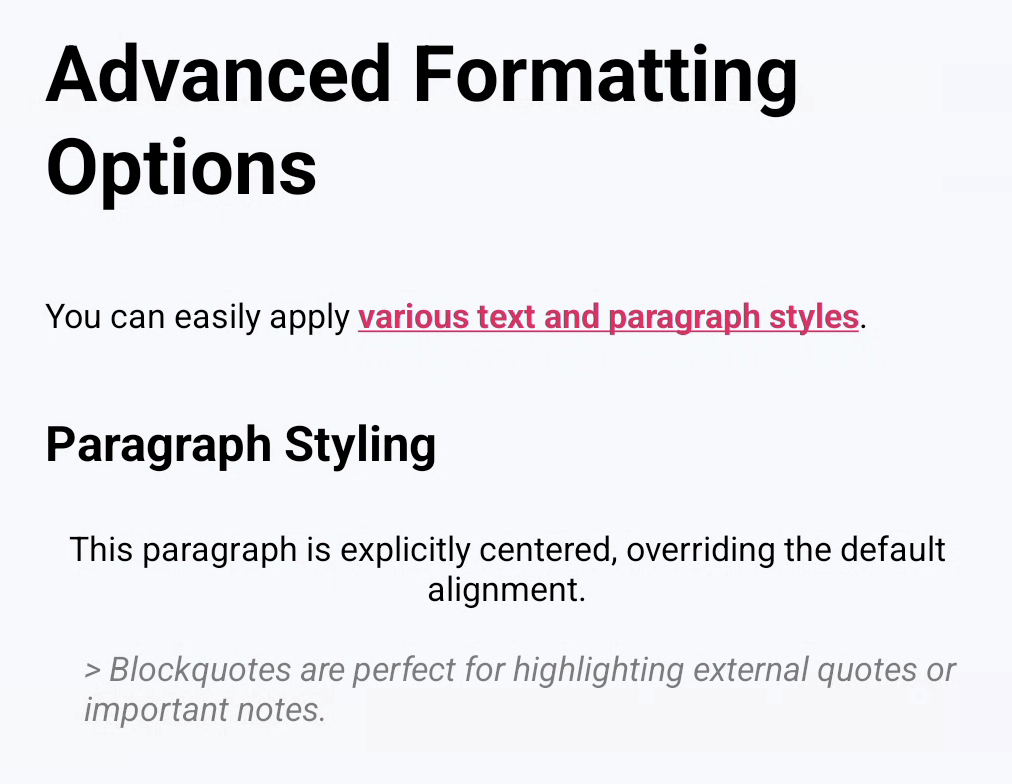
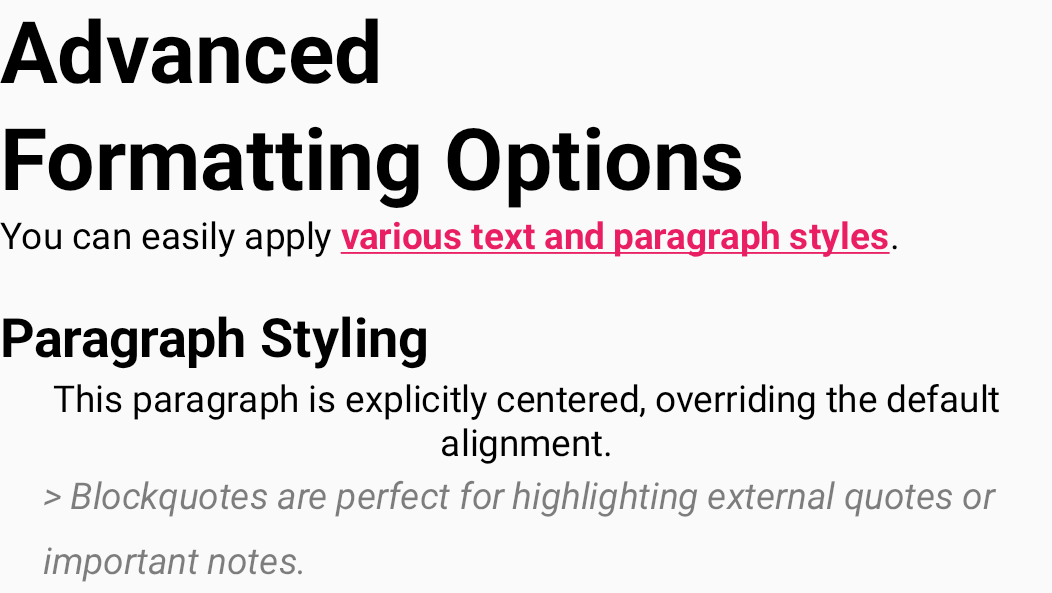
refactor: remove padding and layout noise from samples for clean documentation

Changed region(s): [[0.0, 0.0304, 0.8577, 0.4553], [0.0, 0.516, 0.9496, 0.7892], [0.0306, 0.8196, 0.9496, 0.9713]]

diff --git a/sample-app/src/main/java/dev/mkeeda/arranger/sampleApp/CustomAttributeSample.kt b/sample-app/src/main/java/dev/mkeeda/arranger/sampleApp/CustomAttributeSample.kt
@@ -59,17 +59,12 @@ fun CustomAttributeSample(modifier: Modifier = Modifier) {
             }
         }
 
-    Column(modifier = modifier.padding(16.dp)) {
-        Text("Custom Attribute Mapping Demo", fontWeight = FontWeight.Bold)
-        Spacer(modifier = Modifier.height(16.dp))
-
-        // 4. Pass the custom resolver to RichTextEditor
-        RichTextEditor(
-            state = state,
-            styleResolver = customResolver,
-            modifier = Modifier.fillMaxWidth(),
-        )
-    }
+    // 4. Pass the custom resolver to RichTextEditor
+    RichTextEditor(
+        state = state,
+        styleResolver = customResolver,
+        modifier = modifier.fillMaxWidth(),
+    )
 }
 
 @Preview(showBackground = true)

diff --git a/sample-app/src/main/java/dev/mkeeda/arranger/sampleApp/ChatInputSample.kt b/sample-app/src/main/java/dev/mkeeda/arranger/sampleApp/ChatInputSample.kt
@@ -74,14 +74,8 @@ fun ChatInputSample(modifier: Modifier = Modifier) {
         modifier =
             modifier
                 .fillMaxSize()
-                .imePadding()
-                .padding(16.dp),
+                .imePadding(),
     ) {
-        Text(
-            text = "Chat UI Sample",
-            style = MaterialTheme.typography.titleLarge,
-        )
-        Spacer(modifier = Modifier.height(8.dp))
         Text(
             text = "Select text and use the toolbar to format it. Real-time cursor state reflection is not supported in this phase.",
             style = MaterialTheme.typography.bodyMedium,

diff --git a/sample-app/src/main/java/dev/mkeeda/arranger/sampleApp/ListFormattingSample.kt b/sample-app/src/main/java/dev/mkeeda/arranger/sampleApp/ListFormattingSample.kt
@@ -32,12 +32,8 @@ fun ListFormattingSample(modifier: Modifier = Modifier) {
         modifier =
             modifier
                 .fillMaxWidth()
-                .verticalScroll(rememberScrollState())
-                .padding(16.dp),
+                .verticalScroll(rememberScrollState()),
     ) {
-        Text("List Formatting Sample", style = MaterialTheme.typography.titleLarge)
-        Spacer(modifier = Modifier.height(16.dp))
-
         Text("Bullet List", style = MaterialTheme.typography.titleMedium, fontWeight = FontWeight.Bold)
         Spacer(modifier = Modifier.height(8.dp))
         BulletListSample()

diff --git a/sample-app/src/main/java/dev/mkeeda/arranger/sampleApp/BasicUsageSample.kt b/sample-app/src/main/java/dev/mkeeda/arranger/sampleApp/BasicUsageSample.kt
@@ -39,16 +39,11 @@ fun BasicUsageSample(modifier: Modifier = Modifier) {
             )
         }
 
-    Column(modifier = modifier.padding(16.dp)) {
-        Text("Basic Usage", fontWeight = FontWeight.Bold)
-        Spacer(modifier = Modifier.height(16.dp))
-
-        // 2. Render editor
-        RichTextEditor(
-            state = state,
-            modifier = Modifier.fillMaxWidth(),
-        )
-    }
+    // 2. Render editor
+    RichTextEditor(
+        state = state,
+        modifier = modifier.fillMaxWidth(),
+    )
 }
 
 @Preview(showBackground = true)

diff --git a/sample-app/src/main/java/dev/mkeeda/arranger/sampleApp/AdvancedFormattingSample.kt b/sample-app/src/main/java/dev/mkeeda/arranger/sampleApp/AdvancedFormattingSample.kt
@@ -66,15 +66,10 @@ fun AdvancedFormattingSample(modifier: Modifier = Modifier) {
             )
         }
 
-    Column(modifier = modifier.padding(16.dp)) {
-        Text("Paragraph Styles & Advanced Formatting", fontWeight = FontWeight.Bold)
-        Spacer(modifier = Modifier.height(16.dp))
-
-        RichTextEditor(
-            state = state,
-            modifier = Modifier.fillMaxWidth(),
-        )
-    }
+    RichTextEditor(
+        state = state,
+        modifier = modifier.fillMaxWidth(),
+    )
 }
 
 @Preview(showBackground = true)

diff --git a/sample-app/src/main/java/dev/mkeeda/arranger/sampleApp/HashtagHighlightSample.kt b/sample-app/src/main/java/dev/mkeeda/arranger/sampleApp/HashtagHighlightSample.kt
@@ -51,15 +51,10 @@ fun HashtagHighlightSample(modifier: Modifier = Modifier) {
         }
     }
 
-    Column(modifier = modifier.padding(16.dp)) {
-        Text("Searching and Highlighting", fontWeight = FontWeight.Bold)
-        Spacer(modifier = Modifier.height(16.dp))
-
-        RichTextEditor(
-            state = state,
-            modifier = Modifier.fillMaxWidth(),
-        )
-    }
+    RichTextEditor(
+        state = state,
+        modifier = modifier.fillMaxWidth(),
+    )
 }
 
 @Preview(showBackground = true)

diff --git a/sample-app/src/main/java/dev/mkeeda/arranger/sampleApp/AttributeBatchEditSample.kt b/sample-app/src/main/java/dev/mkeeda/arranger/sampleApp/AttributeBatchEditSample.kt
@@ -44,10 +44,7 @@ fun AttributeBatchEditSample(modifier: Modifier = Modifier) {
             )
         }
 
-    Column(modifier = modifier.padding(16.dp)) {
-        Text("Querying and Modifying Attributes", fontWeight = FontWeight.Bold)
-        Spacer(modifier = Modifier.height(16.dp))
-
+    Column(modifier = modifier) {
         Button(
             onClick = {
                 // Find all runs that have the BoldKey

diff --git a/sample-app/src/main/java/dev/mkeeda/arranger/sampleApp/MainActivity.kt b/sample-app/src/main/java/dev/mkeeda/arranger/sampleApp/MainActivity.kt
@@ -186,7 +186,7 @@ private fun SampleDetailScreen(destination: SampleDestination, onBack: () -> Uni
                 Modifier
                     .fillMaxSize()
                     .padding(innerPadding)
-                    .padding(horizontal = 16.dp),
+                    .padding(16.dp),
         ) {
             when (destination) {
                 SampleDestination.BasicUsage -> BasicUsageSample()

diff --git a/README.md b/README.md
@@ -329,15 +329,10 @@ fun HashtagHighlightSample(modifier: Modifier = Modifier) {
         }
     }
 
-    Column(modifier = Modifier.padding(16.dp)) {
-        Text("Searching and Highlighting", fontWeight = FontWeight.Bold)
-        Spacer(modifier = Modifier.height(16.dp))
-
-        RichTextEditor(
-            state = state,
-            modifier = Modifier.fillMaxWidth(),
-        )
-    }
+    RichTextEditor(
+        state = state,
+        modifier = modifier.fillMaxWidth(),
+    )
 }
 ```
 
@@ -368,10 +363,7 @@ fun AttributeBatchEditSample(modifier: Modifier = Modifier) {
         )
     }
 
-    Column(modifier = Modifier.padding(16.dp)) {
-        Text("Querying and Modifying Attributes", fontWeight = FontWeight.Bold)
-        Spacer(modifier = Modifier.height(16.dp))
-
+    Column(modifier = modifier) {
         Button(
             onClick = {
                 // Find all runs that have the BoldKey
